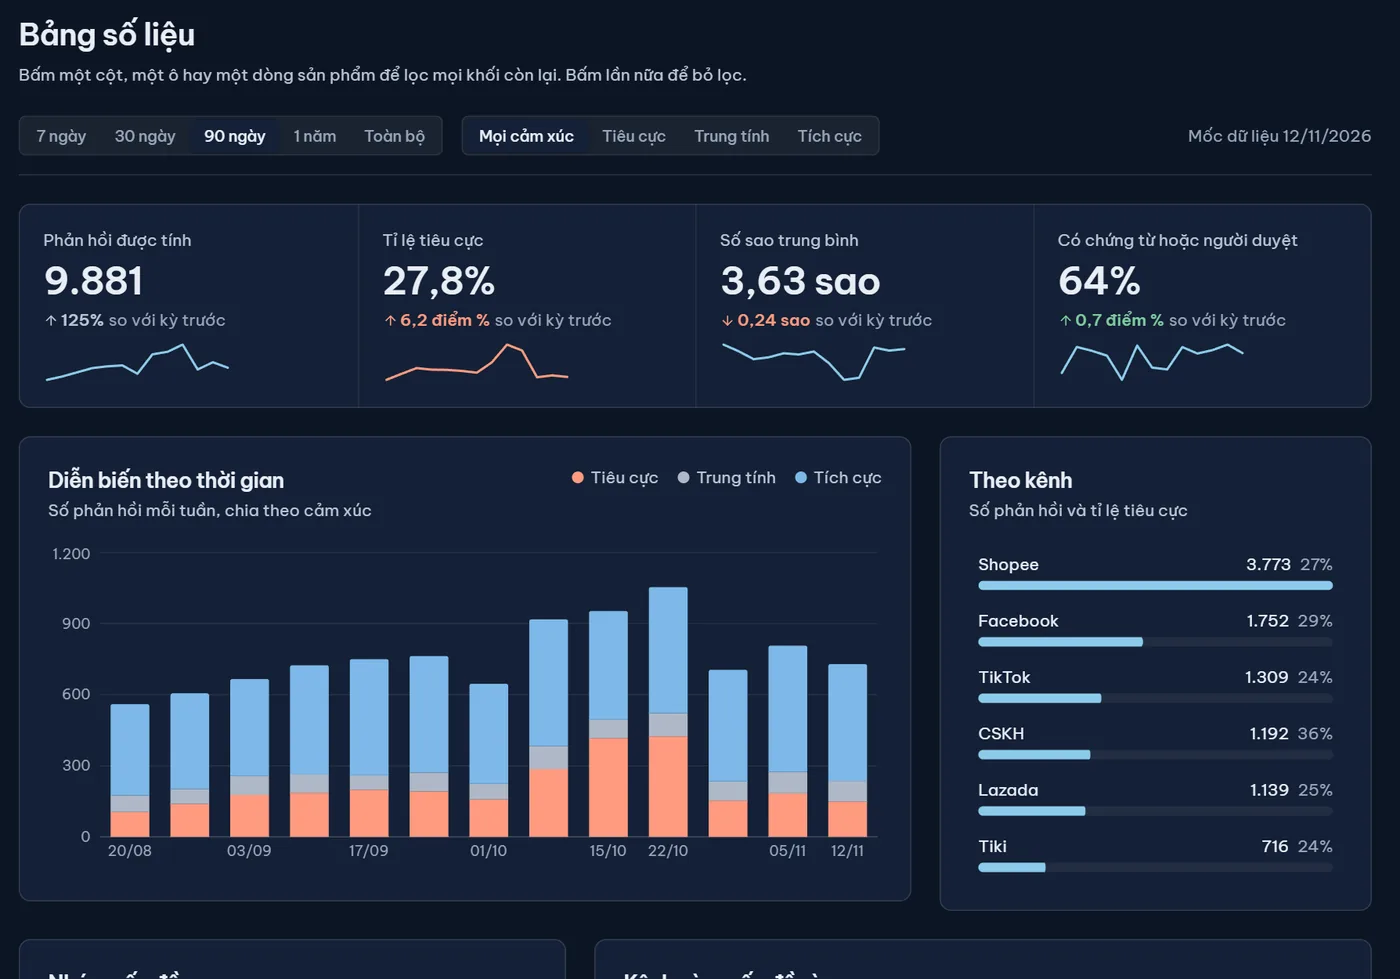
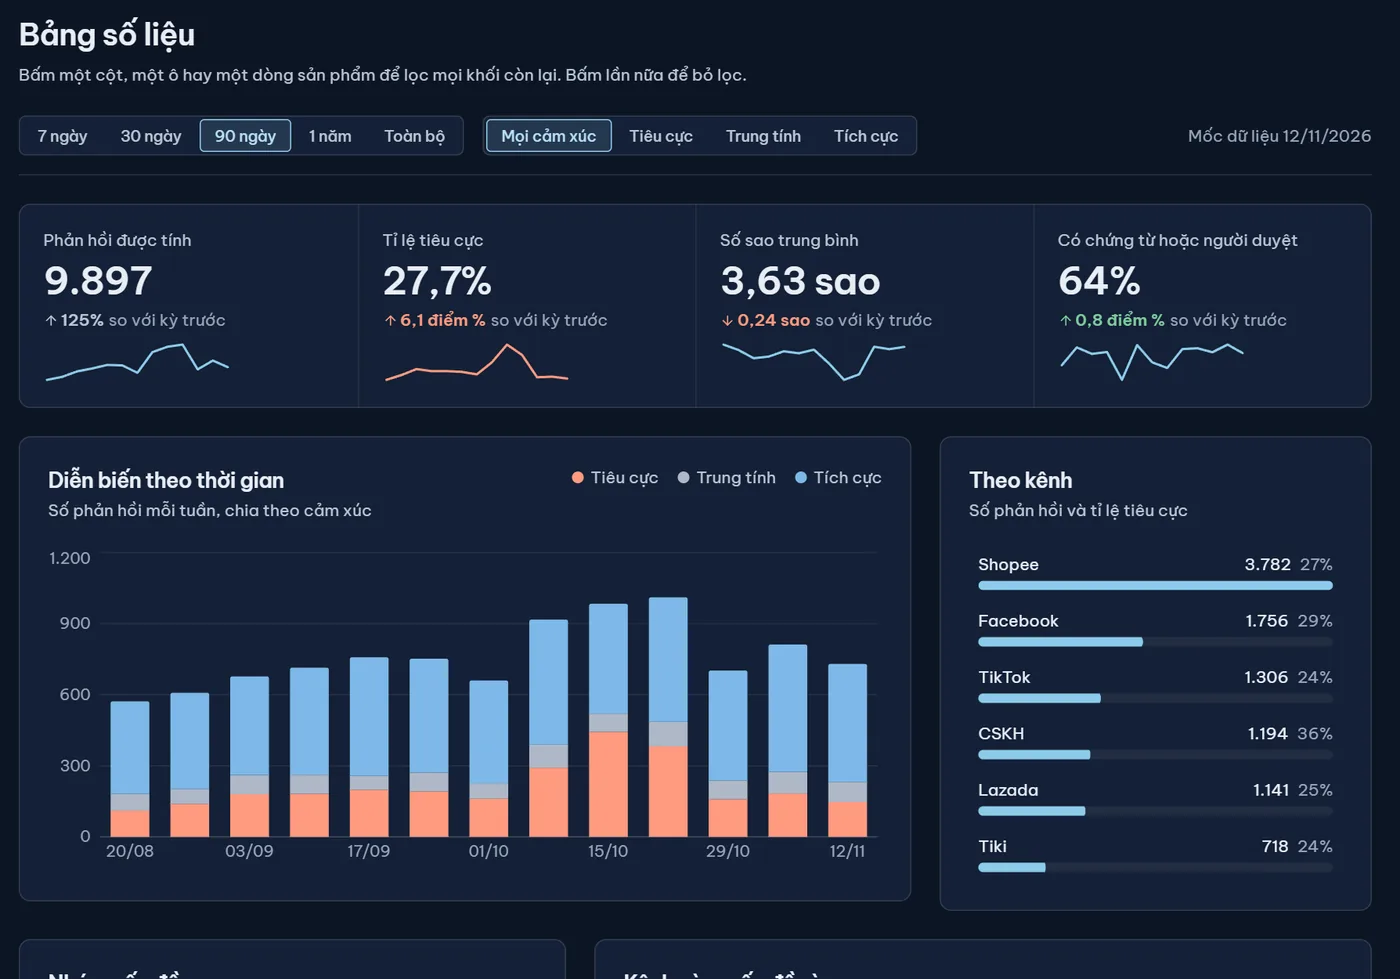
Trang giới thiệu: chụp lại ảnh app bản mới, cập nhật số dự phòng, tăng tương phản đoạn đỉnh ở chế độ tối
- Chụp lại 10 ảnh WebP (giảm chuyển động, phiên megalive chỉ đọc), mỗi ảnh dưới 250 KB.
- SNAPSHOT theo /trust/health lúc 20:53 12/11/2026: 15.112 - 567 - 69 - 12 - 150 = 14.314.
- Chiều cao ảnh Việc hôm nay (654) và tờ sổ (669) theo ảnh mới.
- Chế độ tối: đỉnh là khối giấy navy-94 trên nền navy-20 (15,1 : 1, trước 1,35 : 1).

diff --git a/src/components/landing/Landing.jsx b/src/components/landing/Landing.jsx
@@ -25,17 +25,17 @@ import './landing.css';
  * Số liệu: data.js gọi /trust/health của kho mô phỏng MỘT lần; quá 4 giây hoặc
  * lỗi thì dùng ảnh chụp số ngày 12/11/2026 và ghi rõ ngày.
  *
- * ẢNH TẠM, CHỤP LẠI SAU F5 (giao diện app đang được F1-05, F4, F5 chỉnh):
+ * ẢNH CHỤP APP BẢN MỚI (sau F4 đến F7, chụp 12/11/2026 20:53, giảm chuyển động bật):
  *   public/landing/tong-quan-{light,dark}.webp       Tổng quan nguyên màn (hero, lớp giữa)
  *   public/landing/bang-so-lieu-{light,dark}.webp    Bảng số liệu, bỏ thanh bên (hero lớp sau, rãnh)
  *   public/landing/so-doi-chieu-{light,dark}.webp    tờ sổ đối chiếu cắt ra, góc bo trong suốt (hero lớp trước)
  *   public/landing/viec-hom-nay-{light,dark}.webp    khối Việc hôm nay (rãnh)
  *   public/landing/livestream-{light,dark}.webp      báo cáo sau live của phiên mô phỏng (rãnh)
  *   public/landing/nhom.webp                         ảnh nhóm, cắt bớt tường trống (không chụp lại)
- * Chụp lại (backend local chỉ đọc ở :5000, Vite ở :5299, puppeteer-core ở `npm root -g`;
+ * Chụp lại (backend local chỉ đọc ở :5000, Vite ở :5199, puppeteer-core ở `npm root -g`;
  * script chặn mọi request không phải GET):
- *   node <scratchpad>/cap_app.mjs  http://localhost:5299 cap/light light   (rồi dark)
- *   node <scratchpad>/cap_live.mjs http://localhost:5299 cap/light light   (rồi dark)
+ *   node <scratchpad>/cap_app.mjs  http://localhost:5199 cap/light light   (rồi dark)
+ *   node <scratchpad>/cap_live.mjs http://localhost:5199 cap/light light "Báo cáo sau live"   (rồi dark)
  *   python <scratchpad>/make_webp.py cap .hallmark/team/nhom-customer-radar.png public/landing
  * (Ba script đó chép lại trong .hallmark/shots/F3/scripts/.) Ảnh 1440x900 ở tỉ lệ 1,5,
  * localStorage workspace=demo, cr-theme=light|dark, isAuthenticated=true. Đổi kích thước
@@ -46,8 +46,8 @@ import './landing.css';
 const SHOTS = {
   overview: { base: 'tong-quan', w: 1600, h: 1000 },
   insights: { base: 'bang-so-lieu', w: 1400, h: 979 },
-  sheet: { base: 'so-doi-chieu', w: 600, h: 663 },
-  today: { base: 'viec-hom-nay', w: 1400, h: 778 },
+  sheet: { base: 'so-doi-chieu', w: 600, h: 669 },
+  today: { base: 'viec-hom-nay', w: 1400, h: 654 },
   live: { base: 'livestream', w: 1400, h: 979 }
 };
 const shot = (key, theme) => `/landing/${SHOTS[key].base}-${theme === 'dark' ? 'dark' : 'light'}.webp`;

diff --git a/src/components/landing/data.js b/src/components/landing/data.js
@@ -11,26 +11,26 @@ import axios from 'axios';
  * con số nhảy khi người xem đang đọc.
  *
  * SNAPSHOT: chụp từ backend local (cùng cụm Atlas với prod, kho demo)
- * lúc 15:17 ngày 12/11/2026, `computedAt` 2026-11-12T08:17:41Z. Chỉ giữ
+ * lúc 20:53 ngày 12/11/2026, `computedAt` 2026-11-12T13:51:51Z. Chỉ giữ
  * các trường trang này đọc, đúng tên trường của API.
  */
 export const SNAPSHOT_DATE = '12/11/2026';
 
 export const SNAPSHOT = {
-  rawCollected: 15076,
-  spamRemoved: { count: 566 },
+  rawCollected: 15112,
+  spamRemoved: { count: 567 },
   inauthenticFlagged: { count: 69 },
   pendingReview: { count: 14 },
-  validForAnalysis: 14427,
-  countedForMetrics: 14279,
-  ledger: { spam: 566, inauthentic: 69, pendingNotCounted: 12, pendingCounted: 2, aged: 150, counted: 14279 },
+  validForAnalysis: 14462,
+  countedForMetrics: 14314,
+  ledger: { spam: 567, inauthentic: 69, pendingNotCounted: 12, pendingCounted: 2, aged: 150, counted: 14314 },
   reconciliationRate: 60,
   humanLabelCount: 0,
   tierBreakdown: [
-    { tier: 'P1', count: 8256 },
-    { tier: 'P2', count: 793 },
-    { tier: 'P3', count: 3076 },
-    { tier: 'P4', count: 2895 },
+    { tier: 'P1', count: 8277 },
+    { tier: 'P2', count: 794 },
+    { tier: 'P3', count: 3081 },
+    { tier: 'P4', count: 2904 },
     { tier: 'P5', count: 56 }
   ]
 };

diff --git a/src/components/landing/landing.css b/src/components/landing/landing.css
@@ -224,6 +224,16 @@ html:not(.sc-ready) .lp :is([data-sc-cue], [data-sc-in], [data-sc-stagger] > *) 
 
 /* ---------- 3. đỉnh: nền mực, cắt cứng ---------- */
 .lp-peak { background: var(--strip-bg); color: var(--on-strip); }
+/* Chế độ tối: trang đã gần đen (navy-20) nên khối mực navy-30 chỉ hơn nền 1,35 lần, cú cắt vào đỉnh yếu.
+   Đảo ngược đúng cách chế độ sáng làm (khối mực trên nền giấy): ở tối, đỉnh là khối giấy navy-94 trên nền mực,
+   hơn nền 15,1 lần. Chữ mực navy-26 trên giấy: 12,99 : 1; câu phụ navy-39 7,92 : 1; chú thích navy-50 4,97 : 1.
+   Chỉ dùng token có sẵn, không gradient, không phát sáng; tờ sổ bên trong vẫn là tờ tối (navy-27, hơn giấy 12,56 : 1). */
+[data-theme='dark'] .lp-peak {
+  --strip-bg: var(--navy-94);
+  --on-strip: var(--navy-26);
+  --on-strip-mid: var(--navy-39);
+  --on-strip-lo: var(--navy-50);
+}
 .lp-peak__stage {
   display: grid;
   align-items: center;
